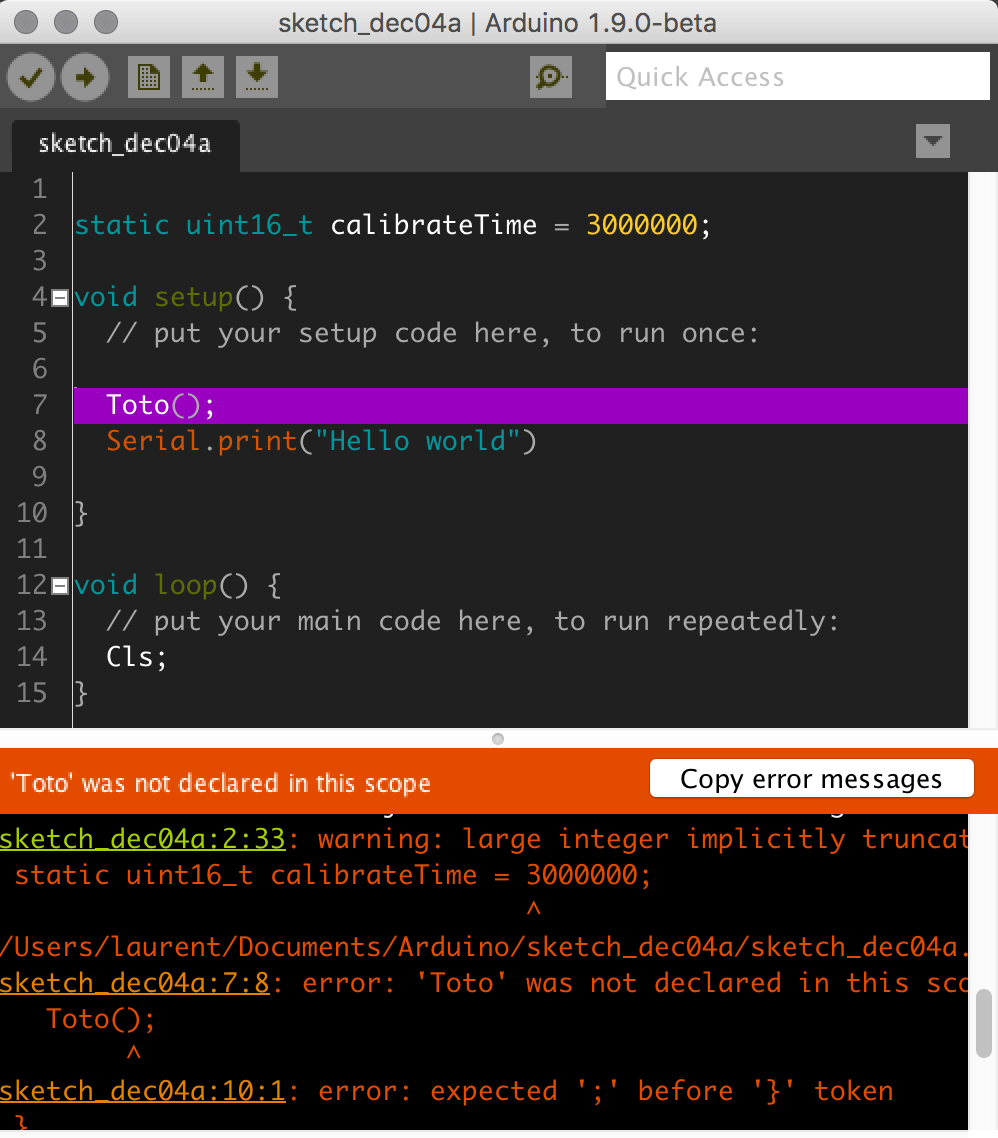
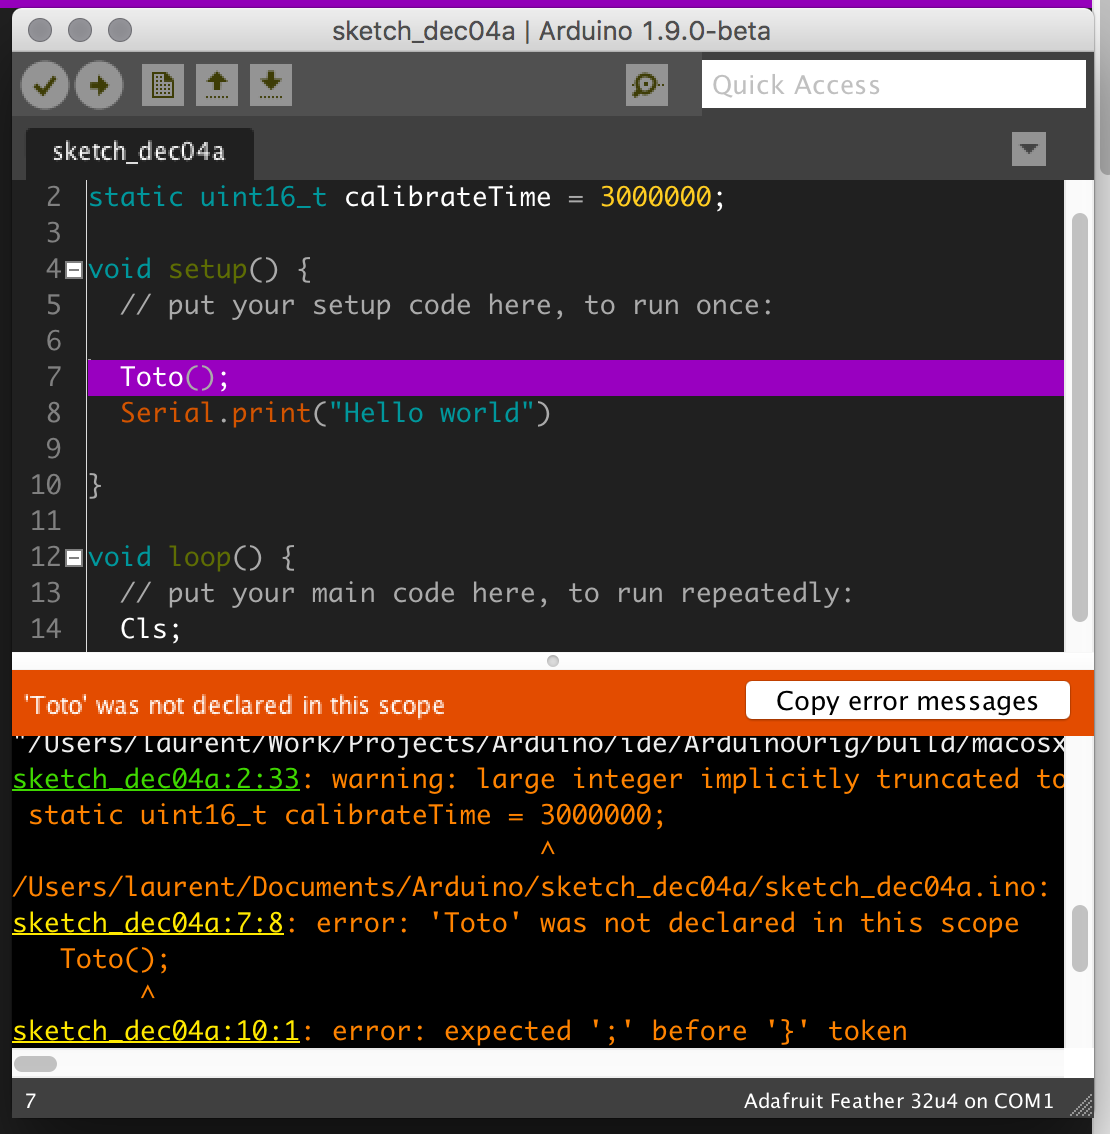
console font color

diff --git a/README.md b/README.md
@@ -17,6 +17,7 @@ Released under [Creative Commons BY-NC-SA license](http://creativecommons.org/li
 
 ### History
 
+1.0.3 Change console font colors per @jockm suggestion
 1.0.2 Customize the error/warning links in the console (1.9.0-LM only)
 	  Gradle
 1.0.1 Change tab color
